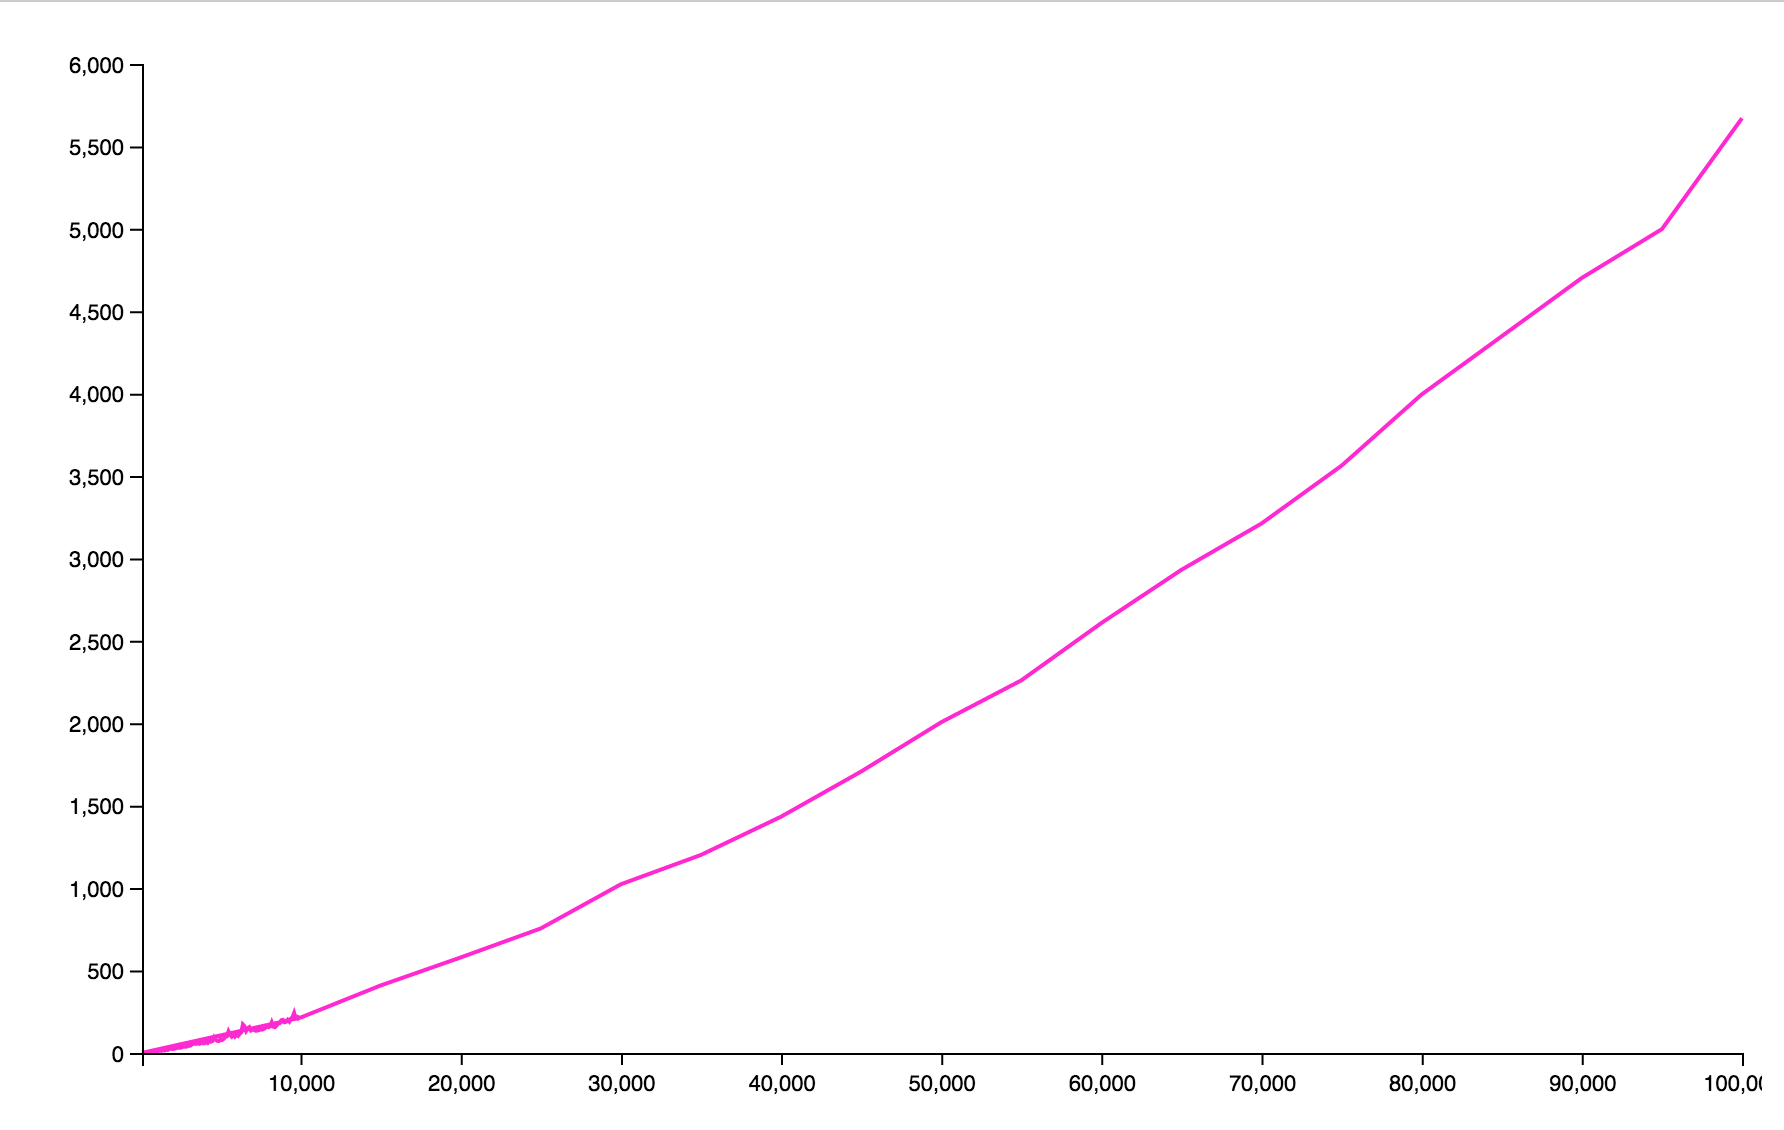
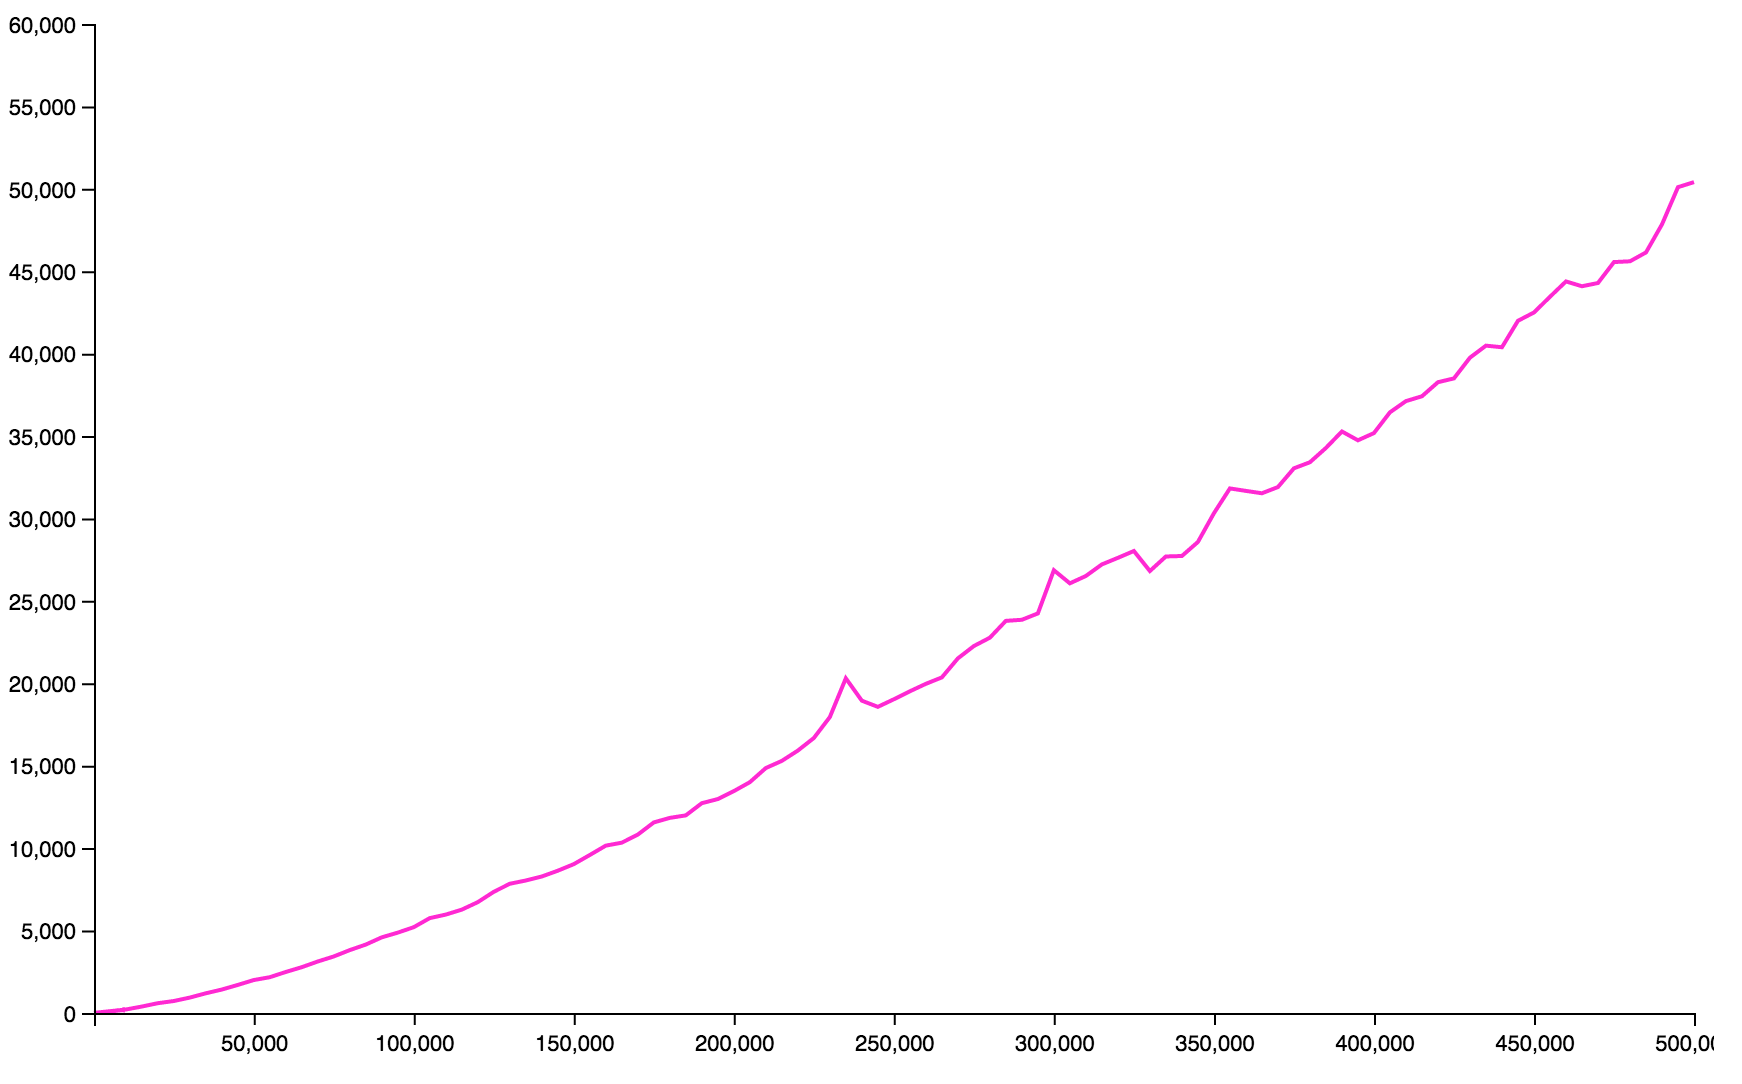
updated scaling chart

diff --git a/README.md b/README.md
@@ -30,6 +30,6 @@ lein test fcprimes.core-test
 # Scaling
 
 This chart (made in Gorilla REPL) shows runtime for the `primes` function
-with milliseconds on Y axis and number of primes on X axis up to 100k primes.
+with milliseconds on Y axis and number of primes on X axis up to 500k primes.
 
 ![runtime chart](https://raw.githubusercontent.com/eriktjacobsen/fcprimes/master/scaling.png)
